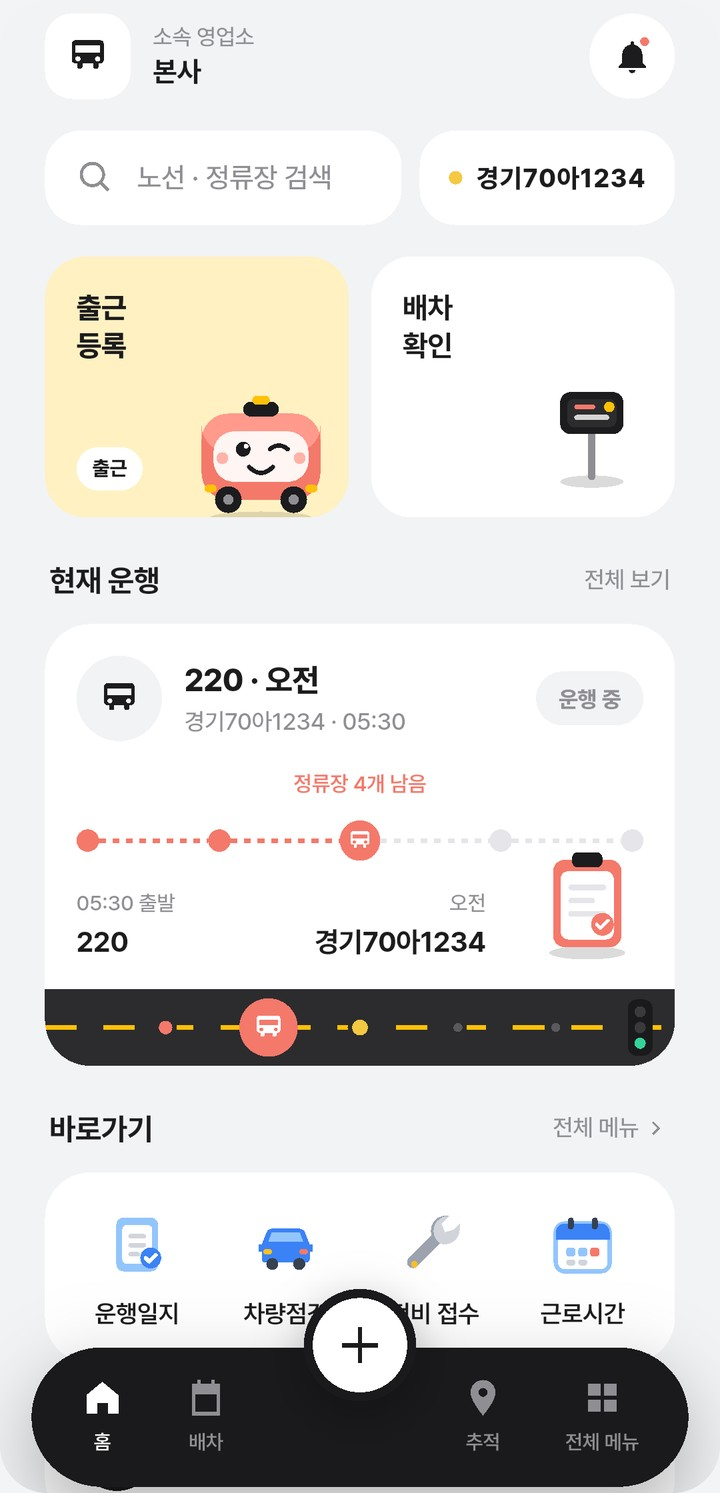
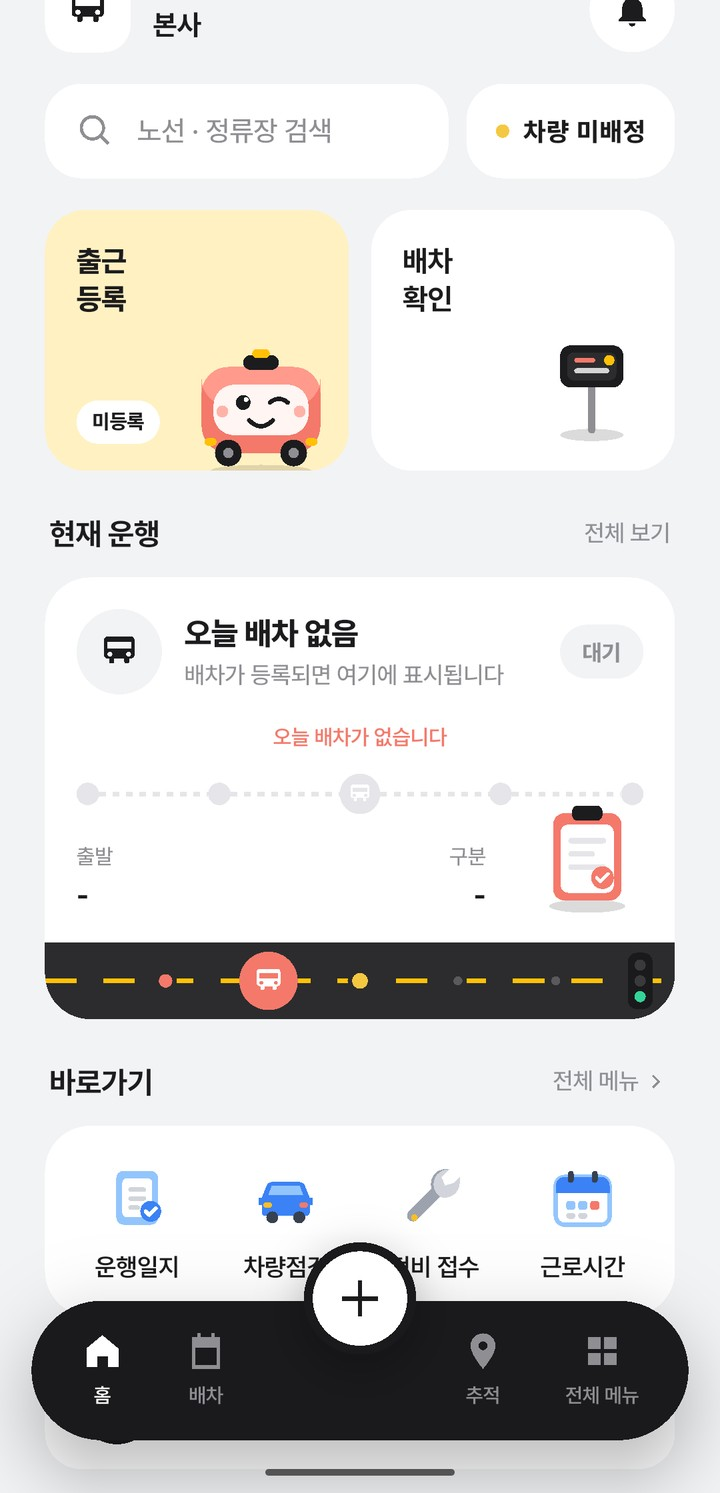
fix(app): 앱 화면을 폰 3장 작은 컷으로 교체 — 빈 데이터 홈·운행 현황·근로시간

diff --git a/src/app/globals.css b/src/app/globals.css
@@ -161,11 +161,15 @@ figcaption { font-size: 12.5px; color: var(--sub); margin-top: 8px; }
 .dp { display: grid; grid-template-columns: 1.15fr 1fr; gap: 48px; align-items: start; padding: 48px 0; border-top: 1px solid var(--line); }
 .dp:first-of-type { border-top: 0; padding-top: 0; }
 .dp.flip .dp-media { order: 2; }
-.dp.mobile { grid-template-columns: 300px 1fr; }
+.dp.mobile { grid-template-columns: 470px 1fr; }
 .dp-media { position: sticky; top: 84px; }
 .dp-media figure + figure { margin-top: 16px; }
 .dp-media .zoom img { max-height: 560px; object-fit: cover; object-position: top; }
+/* 앱 화면: 폰 3장을 작게 나란히 (첫 디자인의 150px 폰 컷 크기) */
+.dp.mobile .dp-media { display: grid; grid-template-columns: repeat(3, 1fr); gap: 12px; }
+.dp.mobile .dp-media figure + figure { margin-top: 0; }
 .dp.mobile .dp-media .zoom img { max-height: none; }
+.dp.mobile .dp-media figcaption { text-align: center; font-size: 12px; }
 .dp-num { font-size: 12px; font-weight: 700; letter-spacing: 0.12em; color: var(--acc); }
 .dp-body h3 { font-size: 25px; font-weight: 800; margin: 8px 0 6px; }
 .dp-tagline { font-size: 15.5px; color: var(--li); margin-bottom: 16px; }
@@ -230,7 +234,7 @@ figcaption { font-size: 12.5px; color: var(--sub); margin-top: 8px; }
   .hero-grid, .dp, .dp.mobile, .grid2, .co { grid-template-columns: 1fr; }
   .dp.flip .dp-media { order: 0; }
   .dp-media { position: static; }
-  .dp.mobile .dp-media { max-width: 280px; }
+  .dp.mobile .dp-media { max-width: 470px; }
   .tile.side { grid-column: auto; }
 }
 @media (max-width: 640px) {

diff --git a/src/data/portfolio.ts b/src/data/portfolio.ts
@@ -682,7 +682,11 @@ export const devProjects: DevProject[] = [
       { k: "담당 범위", v: "메인 개발 (기반 코드·빌드 환경 1인 + 본인)" },
       { k: "팀", v: "2인" },
     ],
-    shots: [{ src: "/images/projects/app_home_main.jpg", caption: "승무원 홈 (스토어 등록 화면)", kind: "mobile" }],
+    shots: [
+      { src: "/images/projects/app_home_main.jpg", caption: "승무원 홈", kind: "mobile" },
+      { src: "/images/projects/app_dispatch.jpg", caption: "오늘 운행 현황", kind: "mobile" },
+      { src: "/images/projects/app_work_hours.jpg", caption: "근로시간", kind: "mobile" },
+    ],
     summary:
       "메인 ERP 도입과 함께 필요해진 현장 앱입니다. 기존 앱 코드 위에서 디자인 토큰 기반 디자인 시스템을 새로 세우고, 직군별 홈 4종과 50여 화면을 교체한 뒤 신규 기능을 3차에 걸쳐 붙여 양대 스토어에 올렸습니다.",
     built: [

diff --git a/src/components/sections/Projects.tsx b/src/components/sections/Projects.tsx
@@ -39,7 +39,7 @@ export default function Projects() {
                 <div className="dp-media">
                   {p.shots?.map((s) => (
                     <figure key={s.src}>
-                      <Zoom src={s.src} alt={s.caption} sizes={s.kind === "mobile" ? "280px" : "(max-width: 900px) 100vw, 620px"} />
+                      <Zoom src={s.src} alt={s.caption} sizes={s.kind === "mobile" ? "150px" : "(max-width: 900px) 100vw, 620px"} />
                       <figcaption>{s.caption}</figcaption>
                     </figure>
                   ))}
